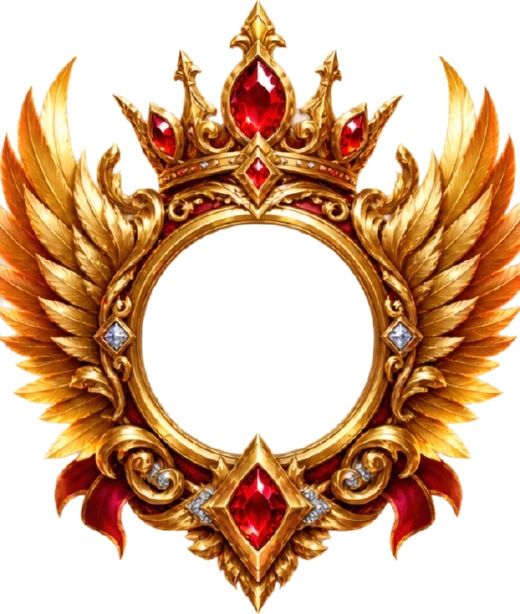
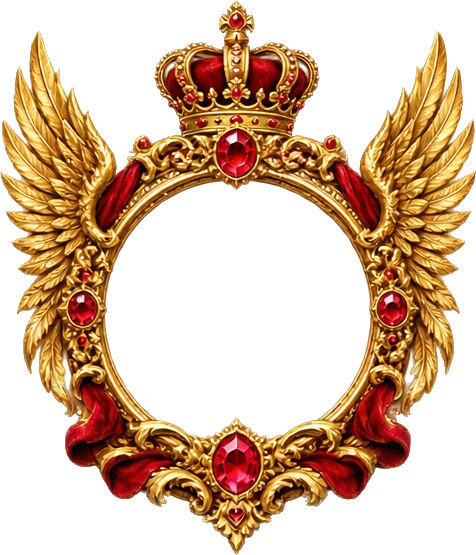
cerceveler: arasi acik yeni sayfayla yeniden kesildi
Ilk sayfada gumus ile altinin kanatlari ust uste binmisti; olcum bunu
dogruladi (x=430-458 arasinda ayni sutunda hem soguk hem sicak piksel) ve
kesim gumuse turuncu bir tuy birakiyordu. Kullanici sayfayi aralari acik
sekilde yeniden urettirdi.

Yeni sayfada kesim sutunlarinda SIFIR dolu piksel var, yani ucu de birbirine
degmeden ayrildi. Gorseller tek tek acilip dogrulandi: kalinti yok, zemin
seffaf, orta aciklik bos.

Olculer betikle yeniden yazildi (delik capi artik daha buyuk: altin .55,
gumus .55, bronz .59). Toplam varlik 292 KB.

diff --git a/src/podium/cerceve.ts b/src/podium/cerceve.ts
@@ -18,9 +18,9 @@ export type CerceveOlcu = { merkezX: number; merkezY: number; capOran: number; e
 
 /* URETILEN-BLOK-BASI */
 export const CERCEVE_OLCU: Record<CerceveKod, CerceveOlcu> = {
-  altin: { merkezX: 0.4952, merkezY: 0.5517, capOran: 0.4429, enBoy: 0.8463 },
-  gumus: { merkezX: 0.5011, merkezY: 0.5373, capOran: 0.4966, enBoy: 0.8745 },
-  bronz: { merkezX: 0.5, merkezY: 0.5444, capOran: 0.5608, enBoy: 0.8808 },
+  altin: { merkezX: 0.4989, merkezY: 0.5577, capOran: 0.5483, enBoy: 0.8577 },
+  gumus: { merkezX: 0.4979, merkezY: 0.5047, capOran: 0.5503, enBoy: 0.8983 },
+  bronz: { merkezX: 0.4989, merkezY: 0.4755, capOran: 0.5892, enBoy: 1.0021 },
 };
 /* URETILEN-BLOK-SONU */
 
